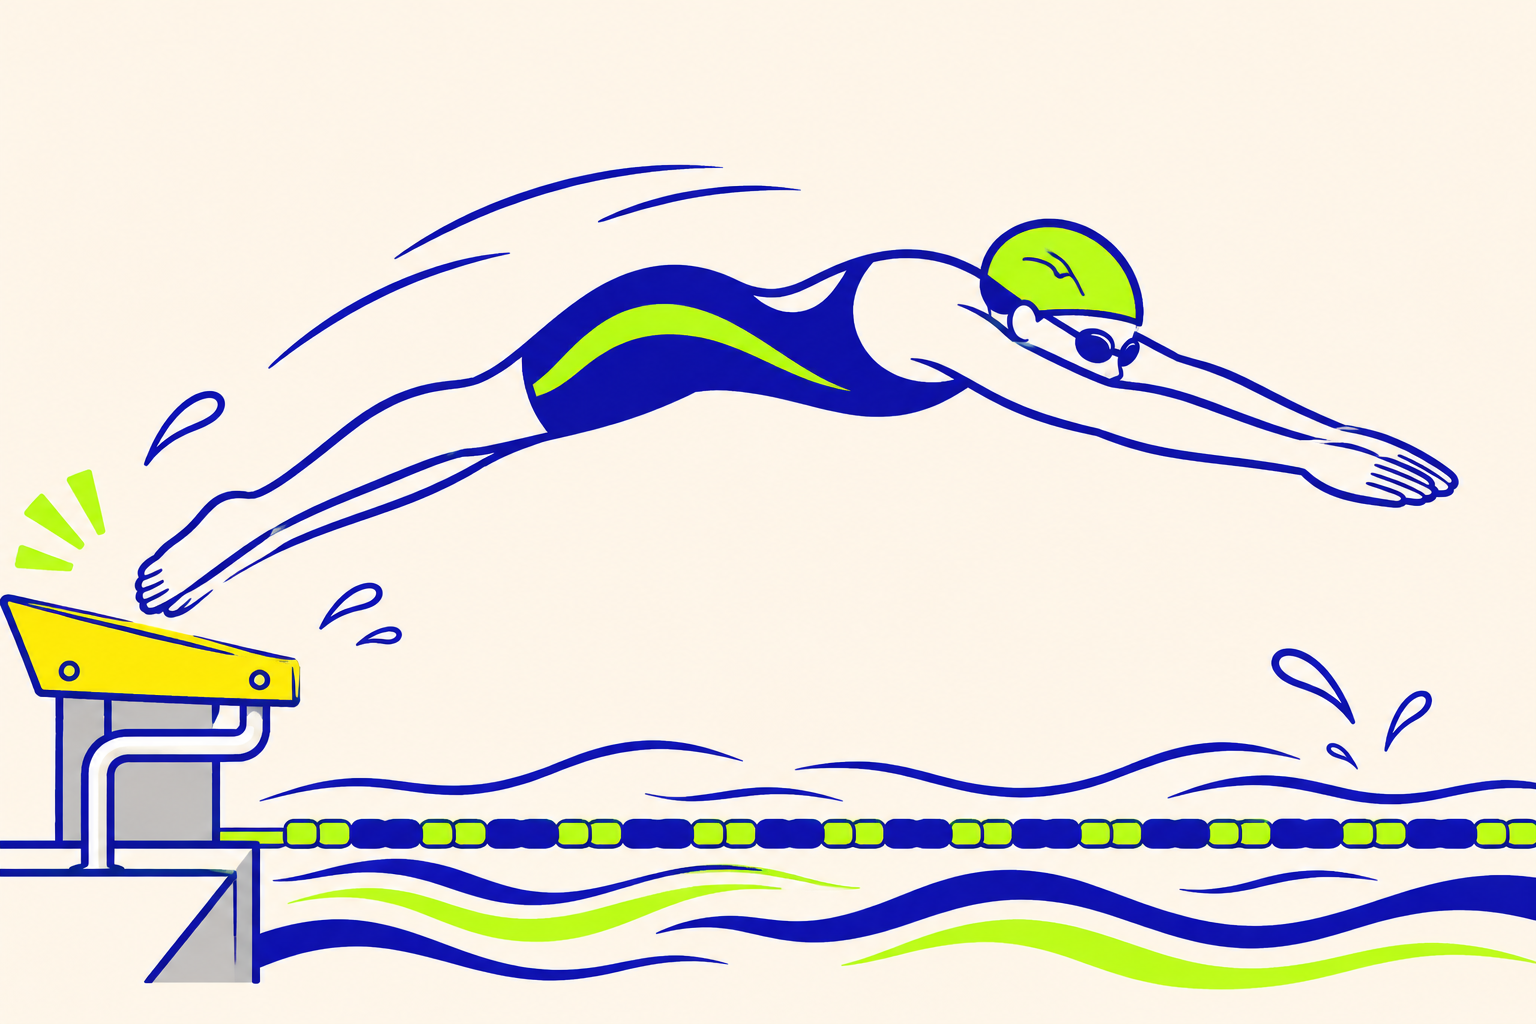
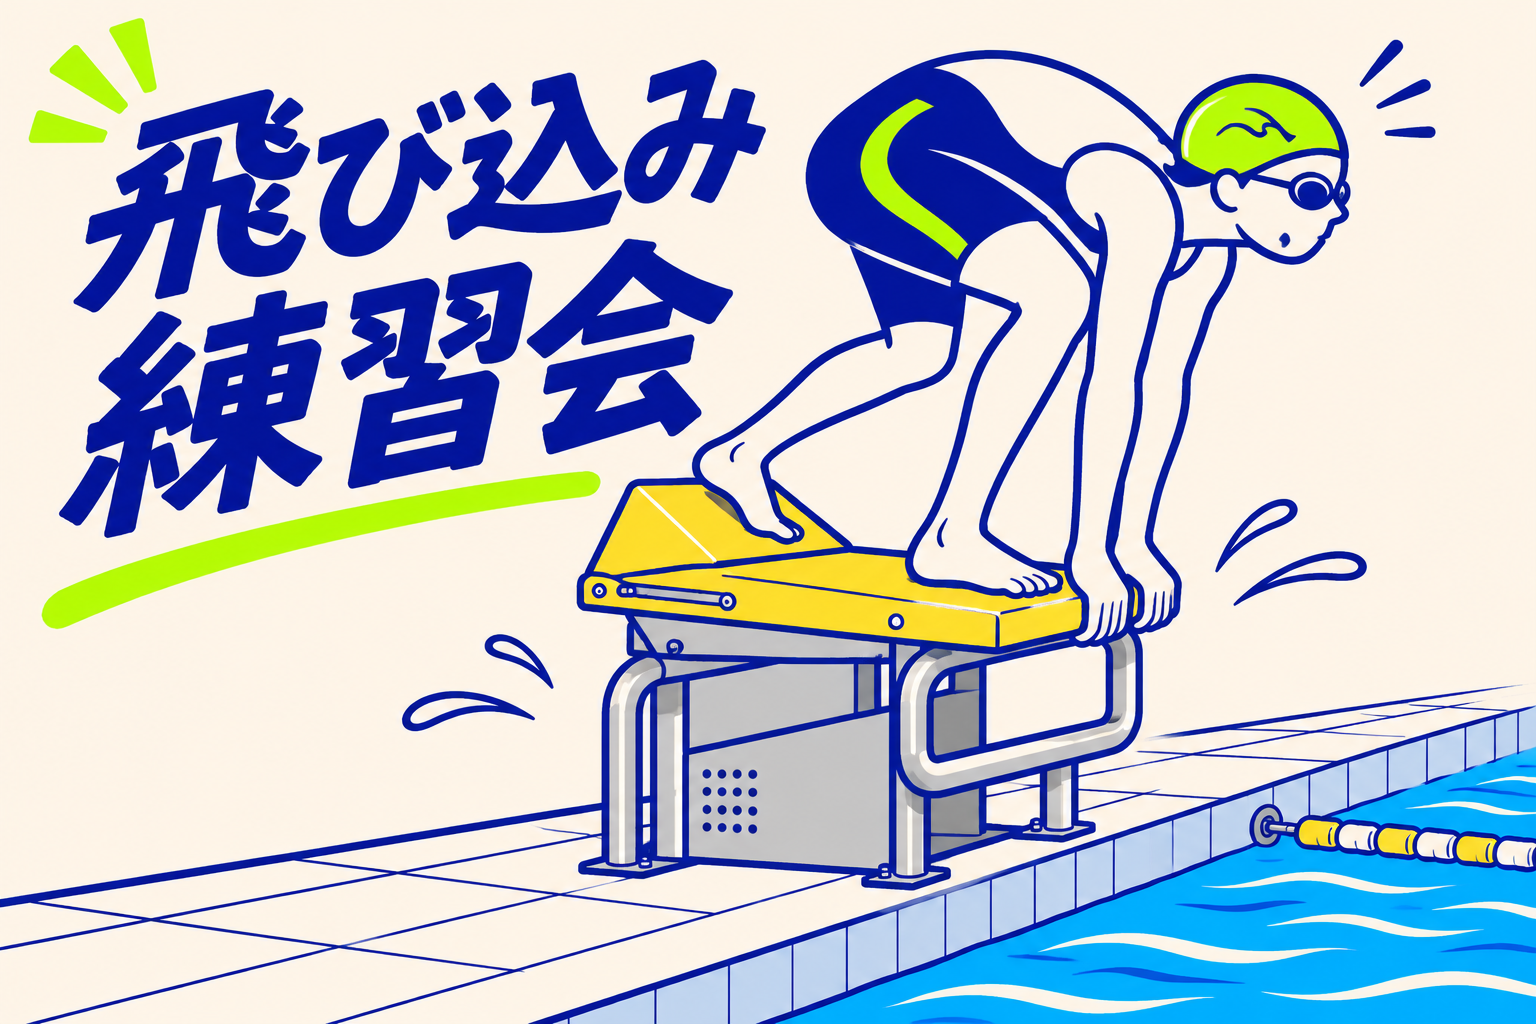
Revise the diving practice poster with the reference block

diff --git a/events/diving-20261130.html b/events/diving-20261130.html
@@ -28,7 +28,7 @@
       </dl>
       <p class="practice-status">開催候補日です。開催可否は11月23日（月）にLINEでお知らせします。</p>
     </header>
-    <img class="practice-illustration" src="../assets/events/diving-20261130-detail.png" width="1536" height="1024" alt="黄色いスタート台から飛び出し、両腕を前に伸ばして水面へ向かう泳者のイラスト">
+    <img class="practice-illustration" src="../assets/events/diving-20261130-detail.png" width="1536" height="1024" alt="飛び込み練習会。プールサイドの黄色いスタート台で構える泳者のイラスト">
     <section aria-labelledby="join-title">
       <h2 id="join-title">参加を希望される方へ</h2>
       <p>締切までに、MOVENSEの公式LINEトークに<strong>「参加します」</strong>と返信してください。</p>
